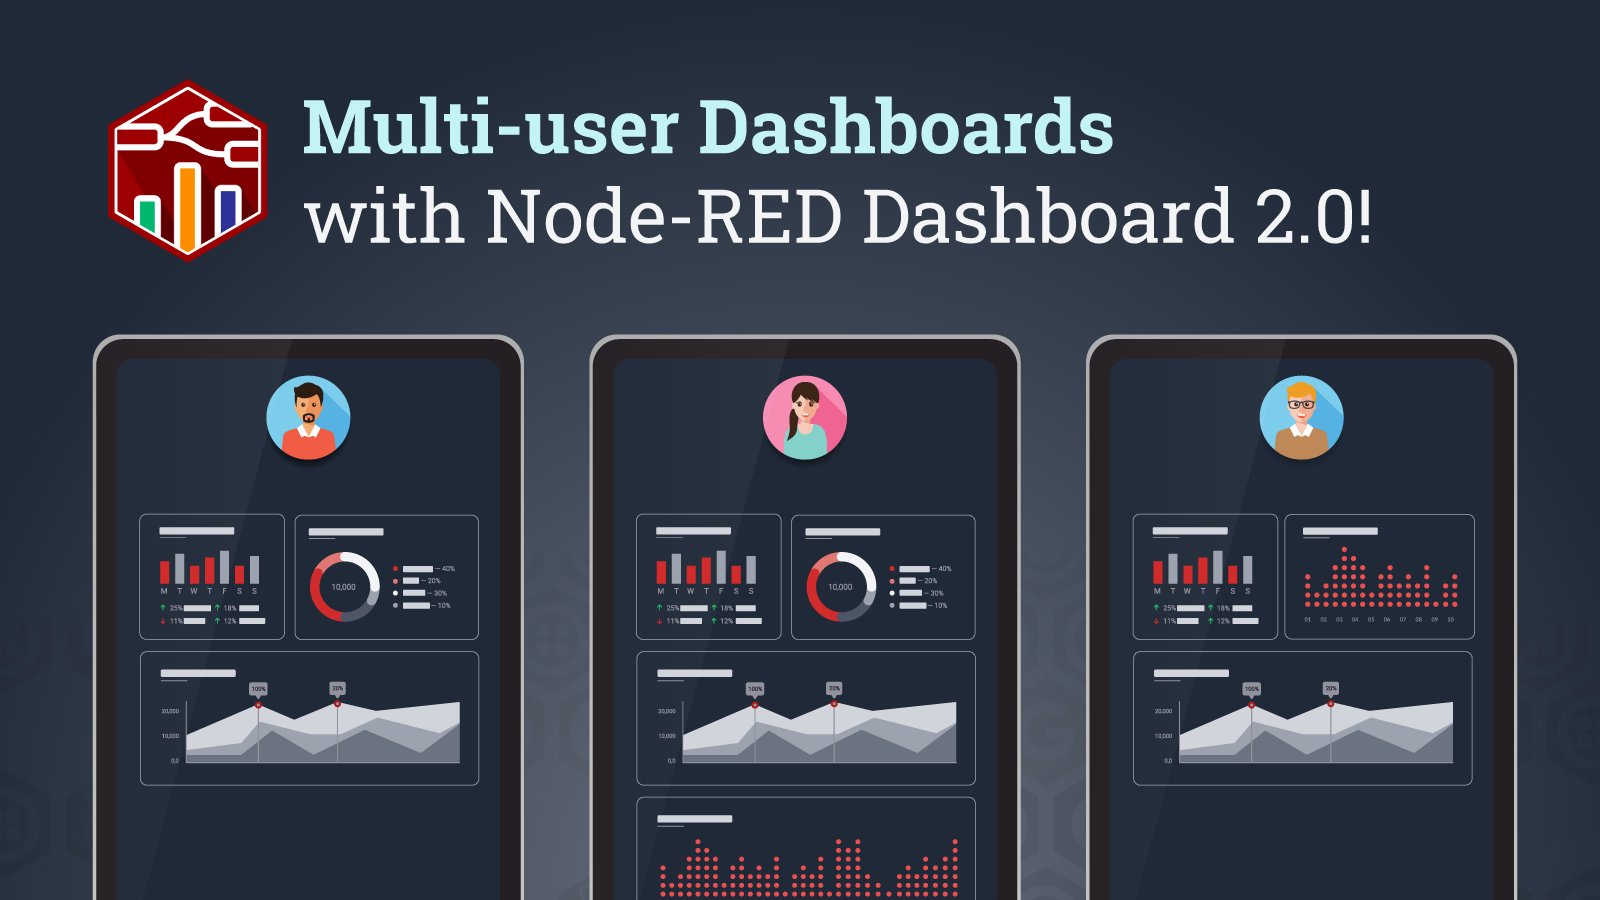
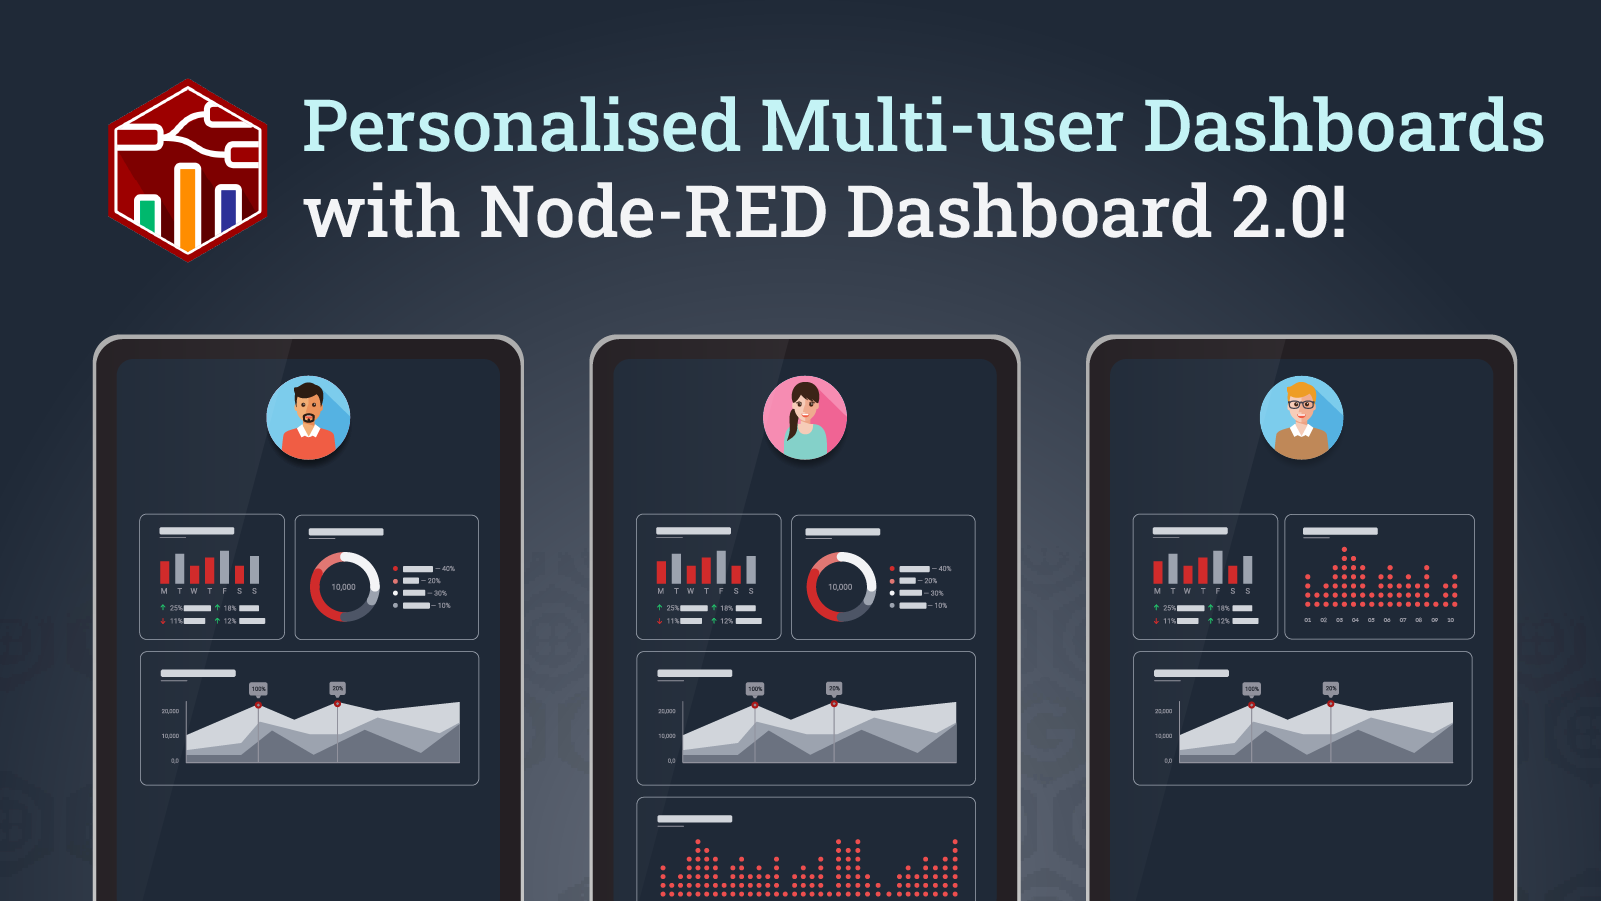
Update title and blog tile

diff --git a/src/blog/2024/01/dashboard-2-multi-user.md b/src/blog/2024/01/dashboard-2-multi-user.md
@@ -1,5 +1,5 @@
 ---
-title: Multi-user Dashboards with Node-RED Dashboard 2.0!
+title: Personalised Multi-user Dashboards with Node-RED Dashboard 2.0!
 subtitle: Explore how to build multi-user Dashboards, secured with FlowFuse Cloud!
 description: Explore how to build multi-user Dashboards, secured with FlowFuse Cloud!
 date: 2024-01-24
